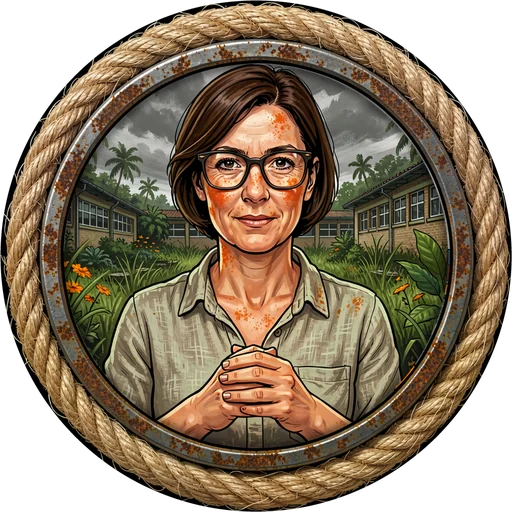
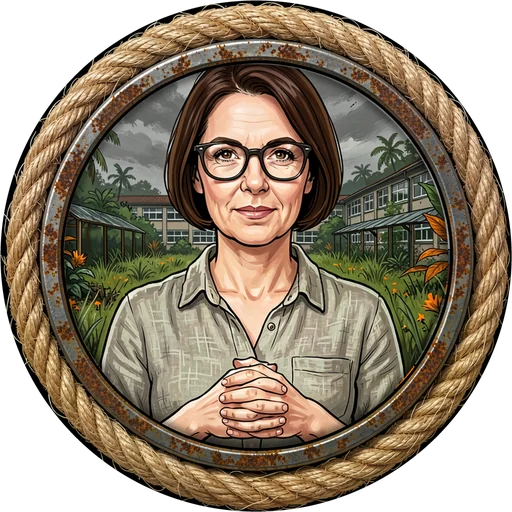
Corrections après relecture : letchis, nouvel an et trois jetons de passés
- letchis.jpg repeinte : enfants en sandales, letchis à peau rouge
  granuleuse sans épines.
- nouvel-an.jpg repeinte au même trait encré que les autres fêtes.
- Jetons apiculteur (enfumoir, plus de pipe), vendeur de bazar
  (calotte blanche, plus de turban), prof de SVT (visage net).

diff --git a/CHANGELOG.md b/CHANGELOG.md
@@ -11,6 +11,10 @@ dans [son dépôt](https://github.com/Hogun974/lakour-mj-ia).
   bouquets liés et vendus au bord de la route, des enfants qui en mangent) et le Nouvel An chinois (un seul dragon : une
   tête à l'avant, un long corps d'étoffe porté sur des perches, la queue à l'arrière). Le système ne change pas, son numéro
   suit la publication.
+- **Corrections après relecture** : la fête des letchis repeinte une seconde fois (enfants en sandales, letchis à peau
+  rouge granuleuse, sans épines) ; le nouvel an repeint au même trait encré que les autres fêtes ; trois jetons de passés
+  refaits : l'apiculteur tient un enfumoir (plus de pipe), le vendeur de bazar z'arabe porte une calotte blanche (plus de
+  turban), la professeure de SVT a le visage net (plus de taches orange).
 
 ## Système 0.1.6 · Contenu 0.2.5 — 9 novembre 2026
 
